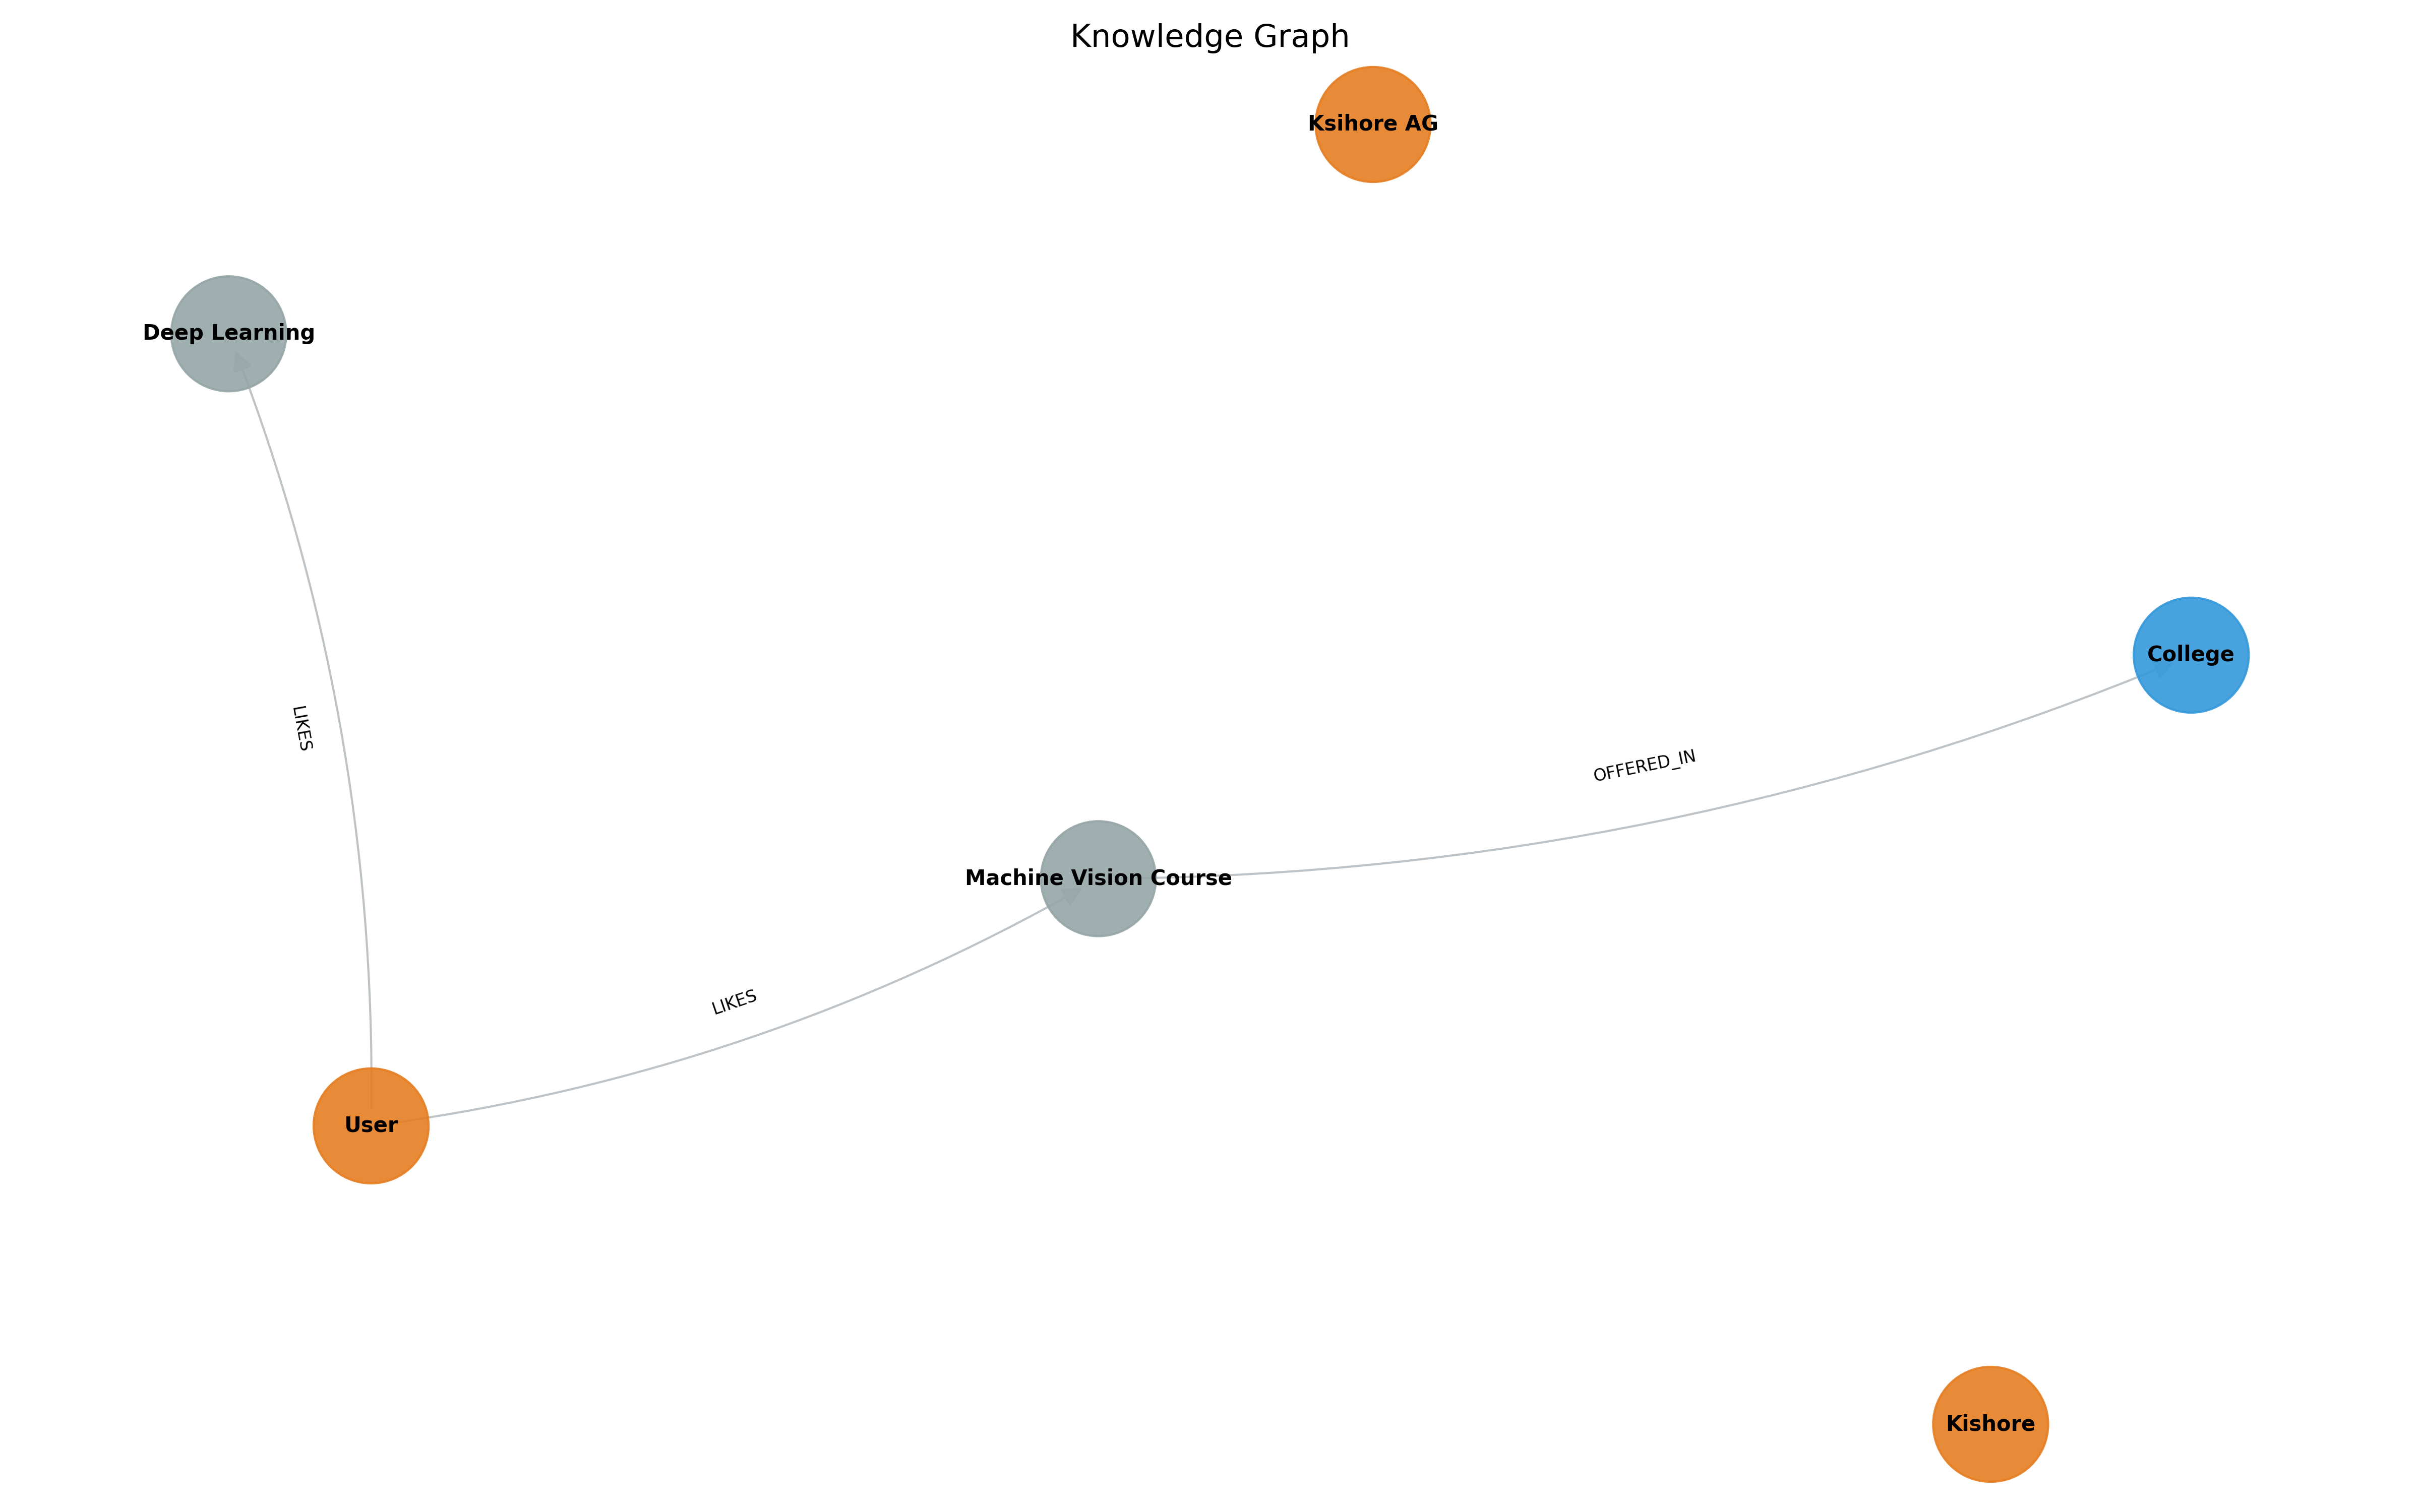
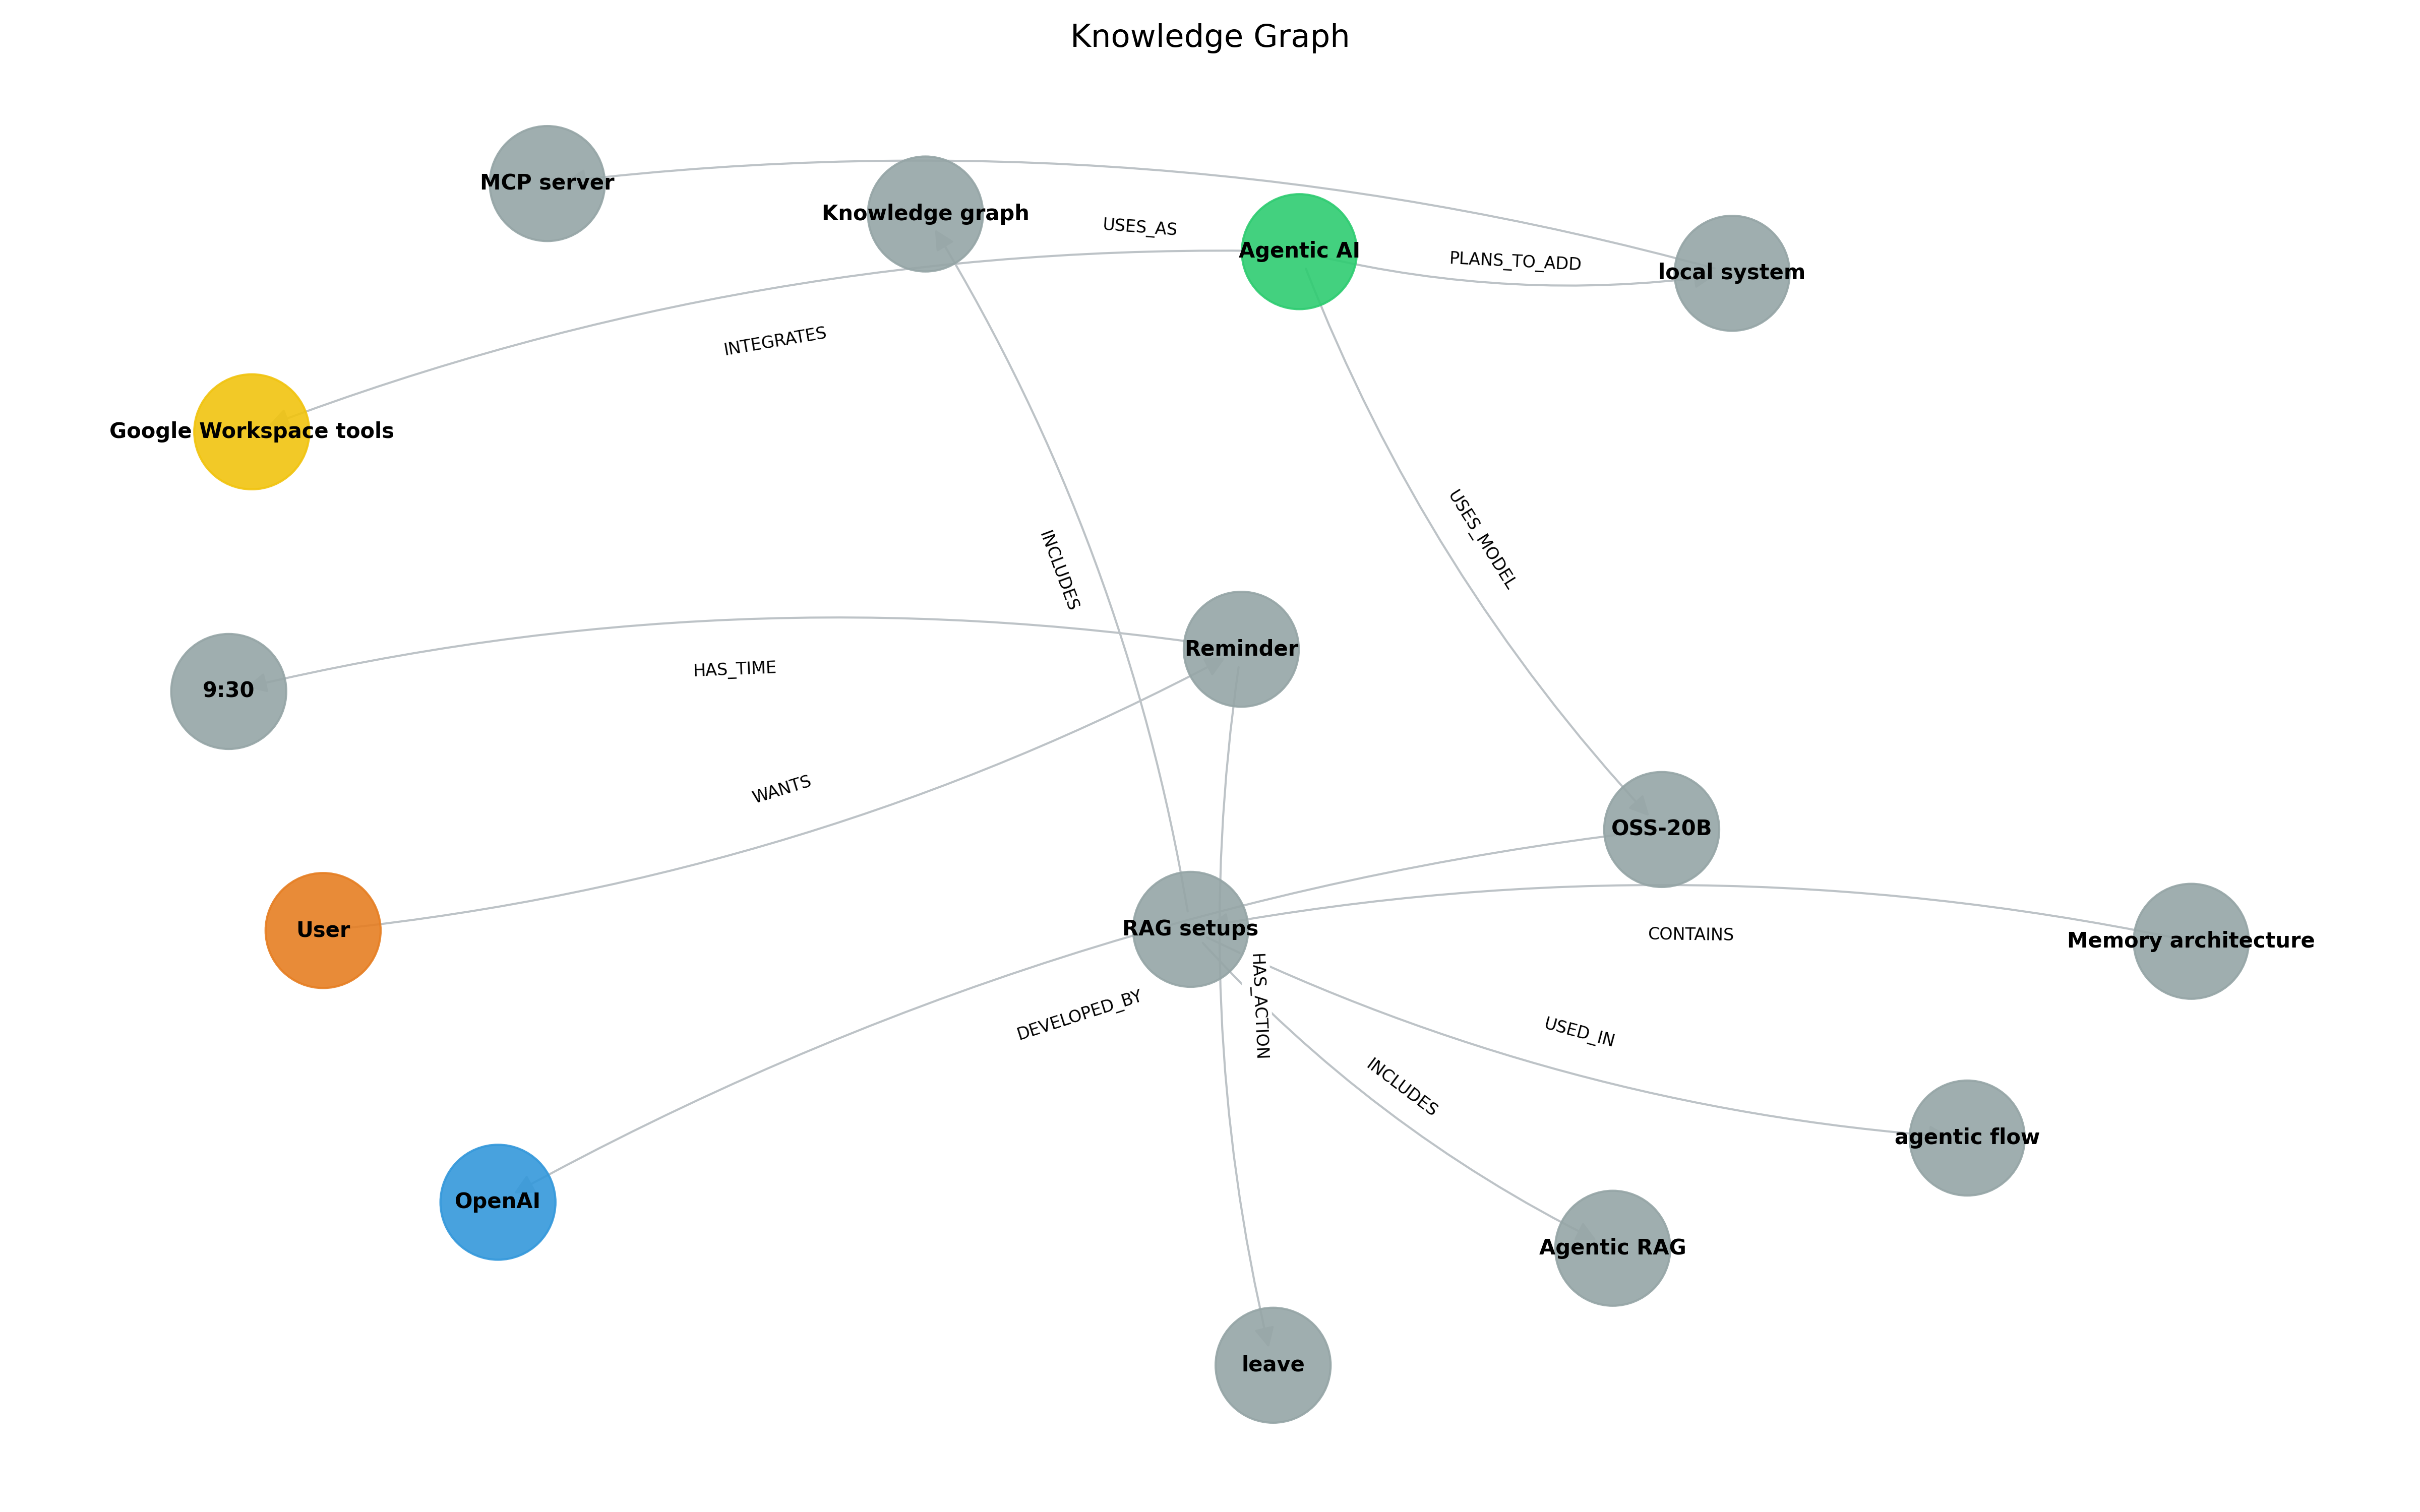
the agent name bug is solved by appling a global var

diff --git a/core/agent.py b/core/agent.py
@@ -33,6 +33,8 @@ logger = setup_logger(__name__)
 
 def agent_node_factory(llm_with_tools, system_prompt, agent_name: str):
     async def agent_node(state: State):
+
+        current_agent_name = agent_name
         request_counter["count"] += 1
         request_num = request_counter["count"]
 
@@ -82,7 +84,7 @@ def agent_node_factory(llm_with_tools, system_prompt, agent_name: str):
                 return {
                     "messages": [
                         AIMessage(
-                            content=f"[{current_time}] [{agent_name}] [ERROR] Rate limit reached. Please retry later.",
+                            content=f"[{current_time}] [{current_agent_name}] [ERROR] Rate limit reached. Please retry later.",
                         )
                     ]
                 }
@@ -93,7 +95,7 @@ def agent_node_factory(llm_with_tools, system_prompt, agent_name: str):
             return {
                 "messages": [
                     AIMessage(
-                        content=f"[{current_time}] [{agent_name}] [ERROR] Network unavailable. Check connection.",
+                        content=f"[{current_time}] [{current_agent_name}] [ERROR] Network unavailable. Check connection.",
                     )
                 ]
             }
@@ -104,7 +106,7 @@ def agent_node_factory(llm_with_tools, system_prompt, agent_name: str):
         raw_content = msg.content if msg.content else ""
 
         if raw_content:
-            final_content = f"[{current_time}] [{agent_name}] {raw_content}"
+            final_content = f"[{current_time}] [{current_agent_name}] {raw_content}"
         else:
             final_content = raw_content
 
@@ -148,17 +150,17 @@ def agent_node_factory(llm_with_tools, system_prompt, agent_name: str):
         if hasattr(agent_message, "content") and isinstance(agent_message.content, str):
             if "CLARIFICATION NEEDED:" in agent_message.content.upper():
                 logger.info("❓ Clarification needed - routing to human")
-                agent_name = "Clarification Agent"
+                current_agent_name = "Clarification Agent"
 
             if "TALK TO USER:" in agent_message.content.upper():
                 logger.info("💬 Agent wants to talk to user - routing to human")
-                agent_name = "Clarification Agent"
+                current_agent_name = "Clarification Agent"
 
         # Log agent response for audit trail
         try:
             await log_event(
                 thread_id=DEFAULT_THREAD_ID,
-                actor=agent_name,
+                actor=current_agent_name,
                 message=final_content if final_content else "Tool calls made",
                 metadata={
                     "tool_calls": len(msg.tool_calls)
@@ -178,6 +180,7 @@ def agent_node_factory(llm_with_tools, system_prompt, agent_name: str):
 def code_execution_factory(llm, tool_sets, agent_name: str):
     async def code_executor(state: State):
         current_time = get_current_time()  # system prompt should have this need to do
+        current_agent_name = agent_name
 
         last_messages = trim_messages(
             state["messages"],
@@ -211,7 +214,7 @@ def code_execution_factory(llm, tool_sets, agent_name: str):
             logger.error(f"Code execution error: {e}")
             raw_content = f"Code execution failed: {str(e)}"
             agent_message = AIMessage(
-                content=f"[{current_time}] [{agent_name}] {raw_content}"
+                content=f"[{current_time}] [{current_agent_name}] {raw_content}"
             )
             return {"messages": [agent_message]}
 
@@ -221,7 +224,7 @@ def code_execution_factory(llm, tool_sets, agent_name: str):
             f"Summary: {msg.get('summary', 'No summary')}\n"
         )
 
-        final_content = f"[{current_time}] [{agent_name}] {raw_content}"
+        final_content = f"[{current_time}] [{current_agent_name}] {raw_content}"
         agent_message = AIMessage(content=final_content)
 
         return {"messages": [agent_message]}

diff --git a/config/prompts.py b/config/prompts.py
@@ -16,7 +16,7 @@ Personal AI assistant with a professional, efficient, boss-assistant dynamic. An
 2. TOOL USAGE - Information Retrieval & Memory
 Available tools:
 - retrieve_from_knowledge_graph: Query internal long-term memory regarding Yadeesh's projects, network, and plans.
-- add_information_to_knowledge_graph: Store explicit details for long-term retention.
+- add_information_to_knowledge_graph: Store explicit details for long-term retention. ONLY WHEN USER SAYS "SAVE TO THE KNOWLEDGE GRAPH".
 - tavily_search: Search the web for general/external current information.
 
 Use Knowledge Graph (Internal Memory) when: